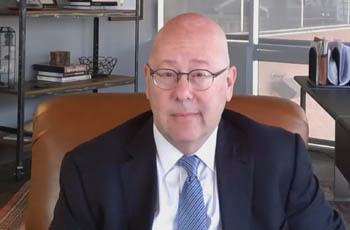
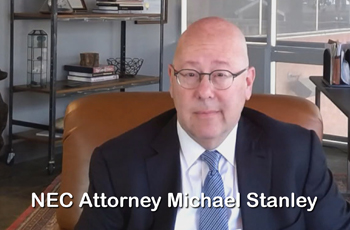
Updates

diff --git a/NEC/stanleylaw.html b/NEC/stanleylaw.html
@@ -2,7 +2,7 @@
 <html>
 <head>
     <meta charset="utf-8">
-    <title>Legal Assist Group - NEC Litigation: Compensation</title>
+    <title>Legal Assist Group - NEC Litigation: Overview</title>
     <!-- Stylesheets -->
     <link href="https://cdn.jsdelivr.net/npm/bootstrap@4.6.0/dist/css/bootstrap.min.css" rel="stylesheet">
     <link href="css/revolution-slider.css" rel="stylesheet">
@@ -56,22 +56,26 @@
                 <!--Default News Post-->
                 <div class="default-news-post">
                     <div class="inner-box wow fadeInUp" data-wow-delay="0ms" data-wow-duration="1500ms">
-                        <figure class="image-box news-image" style="background-image:url(images/background/formula.jpg)">
-                        </figure>
                         <a href="/">
-                            <div class="home-link">
+                            <div class="home-link" style="margin-top:0px;">
                                 <span class="fa fa-caret-left"></span>Home
                             </div>
                         </a>
-                        <h2 class="news-title">Seek Justice & Compensation For NEC. </h2>
-                        <div class="lower-content">
-                            <p>Michael Stanley and the lawyers at Stanley Law are actively seeking Similac and Enfamil (NEC) lawsuits from parents of premature infants who were fed with Similac, Enfamil (or another cow milk-based formula) and subsequently developed NEC.</p>
-                            <p>NEC is considered a mass torts law suit which are are typically made up of individual lawsuits against one or a group of the same defendants. The plaintiffs, who all have their own lawsuits, claim that the same defendant(s) caused all of them harm through the same or very similar circumstances.</p>
-                            <p>In the NEC case, no individual is required to participate in the settlement. Instead, a settlement is structured such that each individual's case facts are evaluated on its own merits, including exposure, causation, injuries, and damages.  <u>Remember, you are in charge and you lawyers (and their law firm) works for you and on your behalf!    For example, if you receive an offer, you do NOT have to take it.   Tell your lawyer it is too low and if you have to, he will go to trail on your behalf.  You may end up with a higher settlement number.  But, remember,  you may lose if court and end up with a lower offer.</u></p>
-                            <p>NEC, like most mass tort cases will likely be disposed through some form of settlement, with less than 3 percent of all tort matters resulting in an actual trial.  Litigants have strong incentives to save on litigation costs by settling out of court.</p>
-                            <h3>Does this cost anything?</h3>
-                            <p>The Legal Assist Group is paid by the Law Firm and does NOT charge you, the claimant, for anything. A law firm will submit a claim on your behalf and will fight to get you the largest cash settlement possible. The law firm will only be paid if there is a settlement on your behalf and then only a set % of the recovery.</p>
-                            <p>We are ready to help you through the process. If you have technical questions or need assistance regarding the sign-up process, you may TEXT or EMAIL us at any time - due to high response volumes, you will receive a response within 24-48 hours.</p>
+                        <h2 class="news-title">Michael Stanley and Stanley Law</h2>
+                        <video id="preview-frame" controls="controls" autoplay="autoplay">
+                            <source src="https://opuscloudstore.blob.core.windows.net/video/NEC-Stanley-Interview2.mp4" type="video/mp4">
+                        </video>
+                        <div id="summary" class="lower-content">
+                            <h3>About Stanley Law</h3>
+                            <p>The client comes first at Stanley Law.  We focus on  representing individuals or businesses that have suffered a loss.  Some of the cases we handle involve personal injury, losses from dangerous products, malpractice, fraud, or business disputes.  While the types of matters vary, we know that each of our clients has a story to tell. Our lawyers and staff work to give a voice to those stories.  To do this, we listen to you and then use all our skills to fight for your rights.  Whether the fight is for justice to make bad practices stop, or for compensation or other remedies, we work to get the recovery that your family deserves.</p>
+                            <p>
+                                For more than thirty years, our lawyers have presented cases throughout the United States in state and federal courts, as well as in arbitration.  Some disputes involve only one victim.  Others involve groups of people that are in similar situations.  We have handled small groups of two or three clients, up to groupings that include 100s of clients.
+                            </p>
+                            <p>We have been honored to help clients through challenging and life-changing events.  And we never forget who we work for – at Stanley Law, you’re in charge.  We encourage you to contact us for a free consultation.</p>
+                            <h3>Michael Stanley</h3>
+                            <p>Michael Stanley was born in California and grew up in Texas.  He went to college in New Mexico and got a law degree from New York University School of Law.  He returned to Texas in 1990 to begin his legal career.</p>
+                            <p>Over more than thirty years, Michael has represented individuals, small and large corporations, and even a foreign government.  He often finds himself fighting for the victims of negligence, bad products and fraud.  He has sought justice for the death of a premature baby that received improper treatment, victims of nursing home abuse, a soldier whose helicopter crashed due to a defective part, hundreds of elderly investors that were swindled out of their life savings, a mother injured during childbirth, farmers and others exposed to harmful chemicals, and victims with PTSD from traumatic injuries.  He has taken on large insurance companies for bad faith in the aftermath of Hurricane Ike and sued multi-billion dollar pharmaceutical companies on behalf of a small start-up company.  Michael is best motivated when asked to serve the underdog whose legal rights have been violated.</p>
+                            <p>He and his wife have raised three children who live throughout Texas.  He enjoys visiting and traveling with his family.</p>
                         </div>
                     </div>
                 </div>
@@ -119,7 +123,6 @@
             </div>
 
         </footer>
-
     </div>
 <!--End pagewrapper-->
 

diff --git a/NEC/index.html b/NEC/index.html
@@ -43,7 +43,12 @@
                         <div class="lag-logo">
                             <a href="/"><img src="images/resource/lag-logo.png" /></a>
                         </div>
-                        <div class="get-started btn-style-one"><a onclick="navigateFF();">See If You Qualify</a></div>
+                        <div class="lag-logo">
+                            <img src="images/resource/stanley-logo.png" /> 
+                        </div>
+                    </div>
+                    <div style="text-align:center;">
+                        <a onclick="navigateFF();" class="theme-btn btn-style-one" style="border-radius:3px;margin:5px;">To Share Your Story, Get Started...click here</a>
                     </div>
                 </div>
 
@@ -133,8 +138,10 @@
                     <!--Text Column-->
                     <div class="column text-column col-xs-12">
                         <div class="inner-box item_margin-bot-62 wow fadeInUp" data-wow-delay="0ms" data-wow-duration="1500ms">
-                            <div class="image-box wow zoomInStable" data-wow-delay="600ms" data-wow-duration="2000ms">
-                                <figure class="image-box"><img src="images/resource/blog-1.jpg" alt=""></figure>
+                            <div class="image-box wow zoomInStable" data-wow-delay="600ms" data-wow-duration="2000ms" style="background-image: url(/images/resource/blog-1.jpg);width:350px;height:230px;margin:auto;padding-top:56px;">
+                                <a href="/stanleylaw.html">
+                                    <svg viewBox="0 0 75.86 75.87" class="wow zoomInStable" data-wow-delay="0ms" data-wow-duration="2000ms" fill="#eeeeee" height="100px"><g id="Layer_2" data-name="Layer 2"><g id="Layer_1-2" data-name="Layer 1"><path d="M38,0a37.94,37.94,0,1,0,37.9,38A38,38,0,0,0,38,0Zm-.19,69.93A32,32,0,1,1,69.9,38,32.1,32.1,0,0,1,37.77,69.93Z" /><path d="M54.33,36,48.2,32.44q-8.84-5.16-17.69-10.32a3.76,3.76,0,0,0-1.06-.39,1.63,1.63,0,0,0-2,1.11,5.09,5.09,0,0,0-.21,1.45c0,4.55,0,9.09,0,13.63v13.8a3.62,3.62,0,0,0,0,.57A1.89,1.89,0,0,0,30.17,54l.45-.24L53.8,40.18a7,7,0,0,0,1.41-1,1.71,1.71,0,0,0,0-2.41A4,4,0,0,0,54.33,36Z" /></g></g></svg>
+                                </a>
                             </div>
                             <div class="text">
                                 <p>With over 30 years of trail law experience, Stanley Law has made a name for themselves going up against big corporations and big Pharma, representing the “little guy” who’s voice would not otherwise be heard.  Michael Stanley levels the playing field against the companies that put profits over people.</p>

diff --git a/NEC/legal.html b/NEC/legal.html
@@ -43,7 +43,9 @@
                         <div class="lag-logo">
                             <a href="/"><img src="images/resource/lag-logo.png" /></a>
                         </div>
-                        <div class="get-started btn-style-one"><a onclick="navigateFF();">See If You Qualify</a></div>
+                        <div class="lag-logo">
+                            <img src="images/resource/stanley-logo.png" />
+                        </div>
                     </div>
                 </div>
 

diff --git a/NEC/medical.html b/NEC/medical.html
@@ -43,7 +43,9 @@
                         <div class="lag-logo">
                             <a href="/"><img src="images/resource/lag-logo.png" /></a>
                         </div>
-                        <div class="get-started btn-style-one"><a onclick="navigateFF();">See If You Qualify</a></div>
+                        <div class="lag-logo">
+                            <img src="images/resource/stanley-logo.png" />
+                        </div>
                     </div>
                 </div>
 

diff --git a/NEC/overview.html b/NEC/overview.html
@@ -43,7 +43,9 @@
                         <div class="lag-logo">
                             <a href="/"><img src="images/resource/lag-logo.png" /></a>
                         </div>
-                        <div class="get-started btn-style-one"><a onclick="navigateFF();">See If You Qualify</a></div>
+                        <div class="lag-logo">
+                            <img src="images/resource/stanley-logo.png" />
+                        </div>
                     </div>
                 </div>
 

diff --git a/NEC/video.html b/NEC/video.html
@@ -43,7 +43,9 @@
                         <div class="lag-logo">
                             <a href="/"><img src="images/resource/lag-logo.png" /></a>
                         </div>
-                        <div class="get-started btn-style-one"><a onclick="navigateFF();">See If You Qualify</a></div>
+                        <div class="lag-logo">
+                            <img src="images/resource/stanley-logo.png" />
+                        </div>
                     </div>
                 </div>
 
